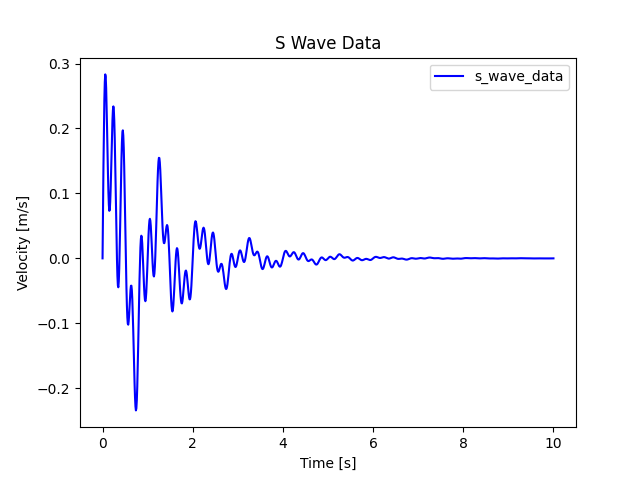
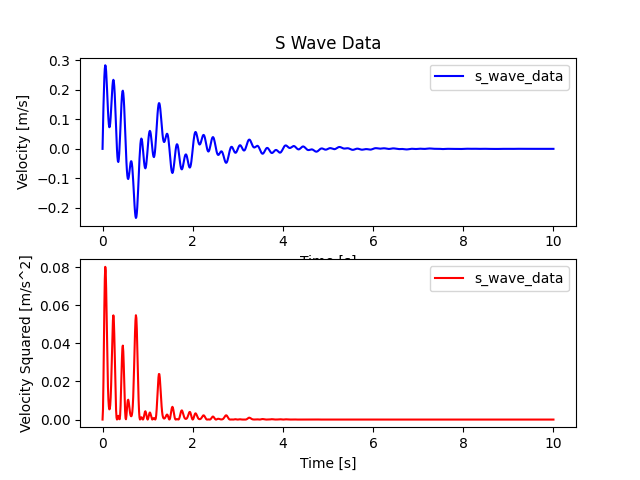
another graph

diff --git a/src/goph420_lab01/integration.py b/src/goph420_lab01/integration.py
@@ -1,7 +1,7 @@
 from __init__ import * 
 
 
-def integrate_newton(x, f, alg): 
+def integrate_newton(x, f, alg="trap"): 
     """
     Integrate a function using Newton-Cotes quadrature. 
     
@@ -18,7 +18,13 @@ def integrate_newton(x, f, alg):
     -------
     float
         The integral of the function. 
-    """ 
+    """  
+
+    if alg.strip().lower() == "trap": 
+        return trapezoid(x, f) 
+    elif alg.strip().lower() == "simp": 
+        return simpson(x, f)
+
     def midpoint(x, f): 
         """uses midpoint rule to integrate a function""" 
         dx = x[1] - x[0]
@@ -29,7 +35,16 @@ def integrate_newton(x, f, alg):
         integral_trap = 0.5 * dx[0] * (f[0] + f[-1])  # First and last points 
         integral_trap += np.sum(dx[0] * f[1:-1])  # Sum of the middle points 
         
-        return integral_trap
+        return integral_trap 
+    
+    def simpson(x, f, dx): 
+        """uses Simpson's rule to integrate a function""" 
+        integral_simp = dx[0] / 3 * (f[0] + f[-1])  # First and last points 
+        integral_simp += np.sum(4 * dx[0] * f[1:-1:2])  # Odd points 
+        integral_simp += np.sum(2 * dx[0] * f[2:-1:2]) # Even points  
+
+        return integral_simp
+
 
     if alg == 'midpoint': 
         return midpoint(x, f)
@@ -53,5 +68,7 @@ def  integrate_gauss():
     returns:
     =======
         float: the integral of f over the interval lims
-    '''
+    ''' 
+
+
 

diff --git a/examples/seismic_driver.py b/examples/seismic_driver.py
@@ -5,15 +5,25 @@ def main():
     # Load the data
     data = np.loadtxt('examples/s_wave_data.txt')
     t_data = data[:, 0] 
-    v_data = data[:, 1]
+    v_data = data[:, 1] 
+    v2_data = v_data ** 2
 
     # Plot the data
-    plt.figure() 
+    plt.figure()  
+
+    plt.subplot(2, 1, 1)
     plt.plot(t_data, v_data, "-b", label='s_wave_data') 
     plt.xlabel("Time [s]") 
     plt.ylabel("Velocity [m/s]") 
     plt.title("S Wave Data") 
     plt.legend() 
+    
+    plt.subplot(2, 1, 2) 
+    plt.plot(t_data, v2_data, "-r", label='s_wave_data') 
+    plt.xlabel("Time [s]") 
+    plt.ylabel("Velocity Squared [m/s^2]") 
+    plt.legend() 
+    
     plt.savefig("examples/s_wave_data.png") 
     plt.show() 
 
